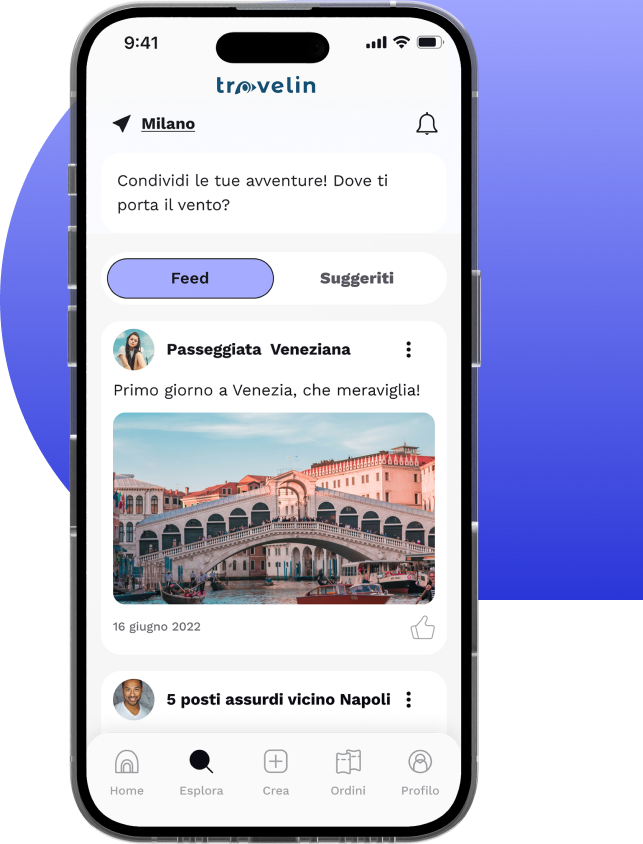
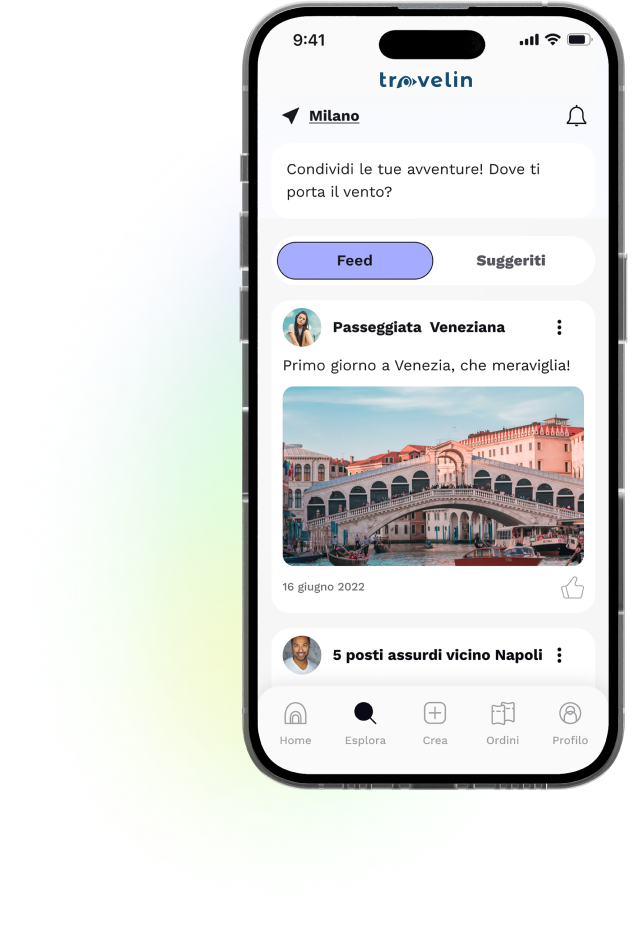
homepage vs2

diff --git a/components/OnePageHome.js b/components/OnePageHome.js
@@ -3,10 +3,13 @@ import Image from "next/image"
 import perLeAziendeModule from "../styles/per-le-aziende.module.css"
 import { useRouter } from "next/router"
 import bg from "../public/bg.png"
-import bgBig from "../public/bgBig.png"
+import arrowDown from "../public/arrow-down.png"
 import homeMockup from "../public/home-mockup.png"
 import viaggiaAModoTuo from "../public/viaggia-a-modo-tuo.png"
 import viaggiaAModoTuo0 from "../public/viaggia-a-modo-tuo0.png"
+
+import supportersLogoBig from "../public/supporters-logos-big.png"
+import supportersLogoSmall from "../public/supporters-logos-small.png"
 import localExperience from "../public/local-experience.png"
 import localExperience0 from "../public/local-experience0.png"
 import community0 from "../public/community0.png"
@@ -16,7 +19,7 @@ import viaggiasenzalimiti from "../public/viaggiasenzalimiti.png"
 import milano from "../public/milano.png"
 import roma from "../public/roma.png"
 import torino from "../public/torino.png"
-import flussoUtente from "../public/flussoUtente.png"
+import flussoUtente from "../public/esplora-crea-condividi.png"
 
 const OnePageHome = ({ children }) => {
   const [screenWindow, setScreenWindow] = useState("")
@@ -64,7 +67,7 @@ const OnePageHome = ({ children }) => {
   if (screenWindow !== "") {
     console.log(screenWindow)
     return (
-      <header style={{ width: "100%" }}>
+      <header style={{ width: screenWindow.width < 600 ? "100%" : "80%" }}>
         <div
           style={{
             display: "flex",
@@ -76,14 +79,20 @@ const OnePageHome = ({ children }) => {
           <div
             style={{
               display: "flex",
-              flexDirection:
-                screenWindow.width > 600 ? "row" : "column-reverse",
+              flexDirection: screenWindow.width > 600 ? "row" : "column",
               alignItems: "center",
               marginBlockEnd: "30px",
             }}
           >
-            <div className="description" style={{ paddingInline: "20px" }}>
-              <div style={{ width: "50vw" }}>
+            <div
+              className="description"
+              style={{
+                paddingInline: "20px",
+              }}
+            >
+              <div
+                style={{ width: screenWindow.width < 600 ? "100%" : "40vw" }}
+              >
                 <h1
                   style={{
                     fontSize: "28px",
@@ -112,22 +121,66 @@ const OnePageHome = ({ children }) => {
                   {countdownTime}
                 </h3>
               </div>
+              <div>
+                <button
+                  style={{
+                    display: "flex",
+                    flexDirection: "column",
+                    justifyContent: "center",
+                    alignItems: "center",
+                    padding: "10px 28px",
+                    gap: "10px",
+                    background: "#2A36D8",
+                    color: "#ffffff",
+                    borderRadius: "5px",
+                    marginBlock: "20px",
+                    width: "70%",
+                    textTransform: "uppercase",
+                  }}
+                >
+                  Resta aggiornato
+                </button>
+              </div>
+              <div>
+                <a
+                  onClick={() => {
+                    // scroll to element with id "eslora-crea-condividi"
+                    document
+                      .getElementById("eslora-crea-condividi")
+                      .scrollIntoView({ behavior: "smooth" })
+                  }}
+                  style={{ cursor: "pointer" }}
+                >
+                  <Image
+                    src={arrowDown}
+                    alt=""
+                    width={"55px"}
+                    height={"114px"}
+                  />
+                </a>
+              </div>
             </div>
             <Image
               src={homeMockup}
               alt="travelin app homepage mockup"
-              width="385.8px"
-              height="506.4px"
+              width="632px"
+              height="937px"
               style={{ position: "absolute", right: "0" }}
               objectFit="contain"
             />
           </div>
           <Image
+            id="eslora-crea-condividi"
             src={flussoUtente}
-            alt="Esplora, crea itinerari e condividili!"
-            width="3024px"
-            height="282px"
-            style={{ position: "absolute", left: "0", bottom: "0" }}
+            alt="Esplora: scopri luoghi ed itinerari. Crea: crea itinerari personalizzati. Condividi i tuoi viaggi con i tuoi amici!"
+            width="1194px"
+            height="234px"
+            style={{
+              position: "absolute",
+              left: "0",
+              bottom: "0",
+              paddingInline: "",
+            }}
           />
         </div>
         <div
@@ -246,7 +299,7 @@ const OnePageHome = ({ children }) => {
               marginBlockStart: screenWindow.width < 600 ? "60px" : "0px",
             }}
           >
-            <div style={{ width: screenWindow.width < 600 ? "100%" : "100%" }}>
+            <div style={{ width: screenWindow.width < 600 ? "100%" : "80%" }}>
               <h1 style={{ fontSize: "28px", fontWeight: "700" }}>
                 Esplora smart
               </h1>
@@ -266,10 +319,11 @@ const OnePageHome = ({ children }) => {
             <div
               style={{
                 display: "flex",
-                gap: "10",
+                gap: "10px",
                 marginBlockStart: "20px",
                 flexDirection: screenWindow.width > 600 ? "row" : "column",
                 alignItems: "center",
+                width: screenWindow.width < 600 ? "100%" : "60%",
               }}
             >
               <Image
@@ -300,7 +354,8 @@ const OnePageHome = ({ children }) => {
                 color: "#ffffff",
                 borderRadius: "5px",
                 marginBlock: "20px",
-                width: "70%",
+                width: "60%",
+                textTransform: "uppercase",
               }}
             >
               Guarda la demo
@@ -333,11 +388,19 @@ const OnePageHome = ({ children }) => {
           <div
             className="Viaggia a modo tuo"
             style={{
-              paddingInline: "20px",
+              paddingInlineStart: "5%",
               marginBlockEnd: screenWindow.width < 600 ? "20px" : "0px",
+              width: screenWindow.width < 600 ? "100%" : "60%",
             }}
           >
-            <div style={{ width: screenWindow.width < 600 ? "100%" : "100%" }}>
+            <div
+              style={{
+                width: screenWindow.width < 600 ? "100%" : "100%",
+                display: "flex",
+                flexDirection: "column",
+                justifyContent: "flex-end",
+              }}
+            >
               <h1 style={{ fontSize: "28px", fontWeight: "700" }}>
                 Viaggia a modo tuo
               </h1>
@@ -363,16 +426,17 @@ const OnePageHome = ({ children }) => {
             flexDirection: screenWindow.width > 600 ? "row" : "column",
             alignItems: "center",
             marginBlock: "60px",
+            width: screenWindow.width < 600 ? "100%" : "100%",
           }}
         >
           <div
             className="Local experience"
             style={{
               paddingInline: "20px",
-              marginBlockEnd: screenWindow.width < 600 ? "20px" : "0px",
+              marginBlockStart: screenWindow.width < 600 ? "60px" : "0px",
             }}
           >
-            <div style={{ width: screenWindow.width < 600 ? "100%" : "100%" }}>
+            <div style={{ width: screenWindow.width < 600 ? "100%" : "80%" }}>
               <h1 style={{ fontSize: "28px", fontWeight: "700" }}>
                 Local experience
               </h1>
@@ -391,8 +455,8 @@ const OnePageHome = ({ children }) => {
           <Image
             src={localExperience}
             alt="travelin app local experience mockup"
-            width="607px"
-            height="600px"
+            width="905px"
+            height="901px"
             objectFit="contain"
           />
         </div>
@@ -415,8 +479,9 @@ const OnePageHome = ({ children }) => {
           <div
             className="Community"
             style={{
-              paddingInline: "20px",
+              paddingInlineStart: "5%",
               marginBlockEnd: screenWindow.width < 600 ? "20px" : "0px",
+              width: screenWindow.width < 600 ? "100%" : "60%",
             }}
           >
             <div style={{ width: screenWindow.width < 600 ? "100%" : "100%" }}>
@@ -431,6 +496,30 @@ const OnePageHome = ({ children }) => {
                 la garanzia di trovarti nel posto giusto al momento giusto.
               </p>
             </div>
+          </div>
+        </div>
+        <div className="Al nostro fianco" style={{ marginBlockEnd: "60px" }}>
+          <h1
+            style={{ fontSize: "28px", fontWeight: "700", textAlign: "center" }}
+          >
+            Sono al nostro fianco
+          </h1>
+          <div style={{ width: "100%", marginTop: 32 }}>
+            {screenWindow.width > 600 ? (
+              <Image
+                alt="supporters logos"
+                src={supportersLogoBig}
+                width={"1778px"}
+                height={"303px"}
+              />
+            ) : (
+              <Image
+                alt="supporters logos"
+                src={supportersLogoSmall}
+                width={"877px"}
+                height={"390px"}
+              />
+            )}
           </div>
         </div>
         <div
@@ -492,6 +581,7 @@ const OnePageHome = ({ children }) => {
                   borderRadius: "5px",
                   width: "70%",
                   marginBlock: "20px",
+                  textTransform: "uppercase",
                 }}
               >
                 Resta aggiornato

diff --git a/components/ViaggiaInclusivo.js b/components/ViaggiaInclusivo.js
@@ -15,10 +15,6 @@ import community0 from "../public/community0.png"
 import community from "../public/community.png"
 import filtraperincludere from "../public/filtraperincludere.png"
 import viaggiainclusivo from "../public/viaggiainclusivo.png"
-import milano from "../public/milano.png"
-import roma from "../public/roma.png"
-import torino from "../public/torino.png"
-import flussoUtente from "../public/flussoUtente.png"
 
 const ViaggiaInclusivoOnePage = ({ children }) => {
   const [screenWindow, setScreenWindow] = useState("")
